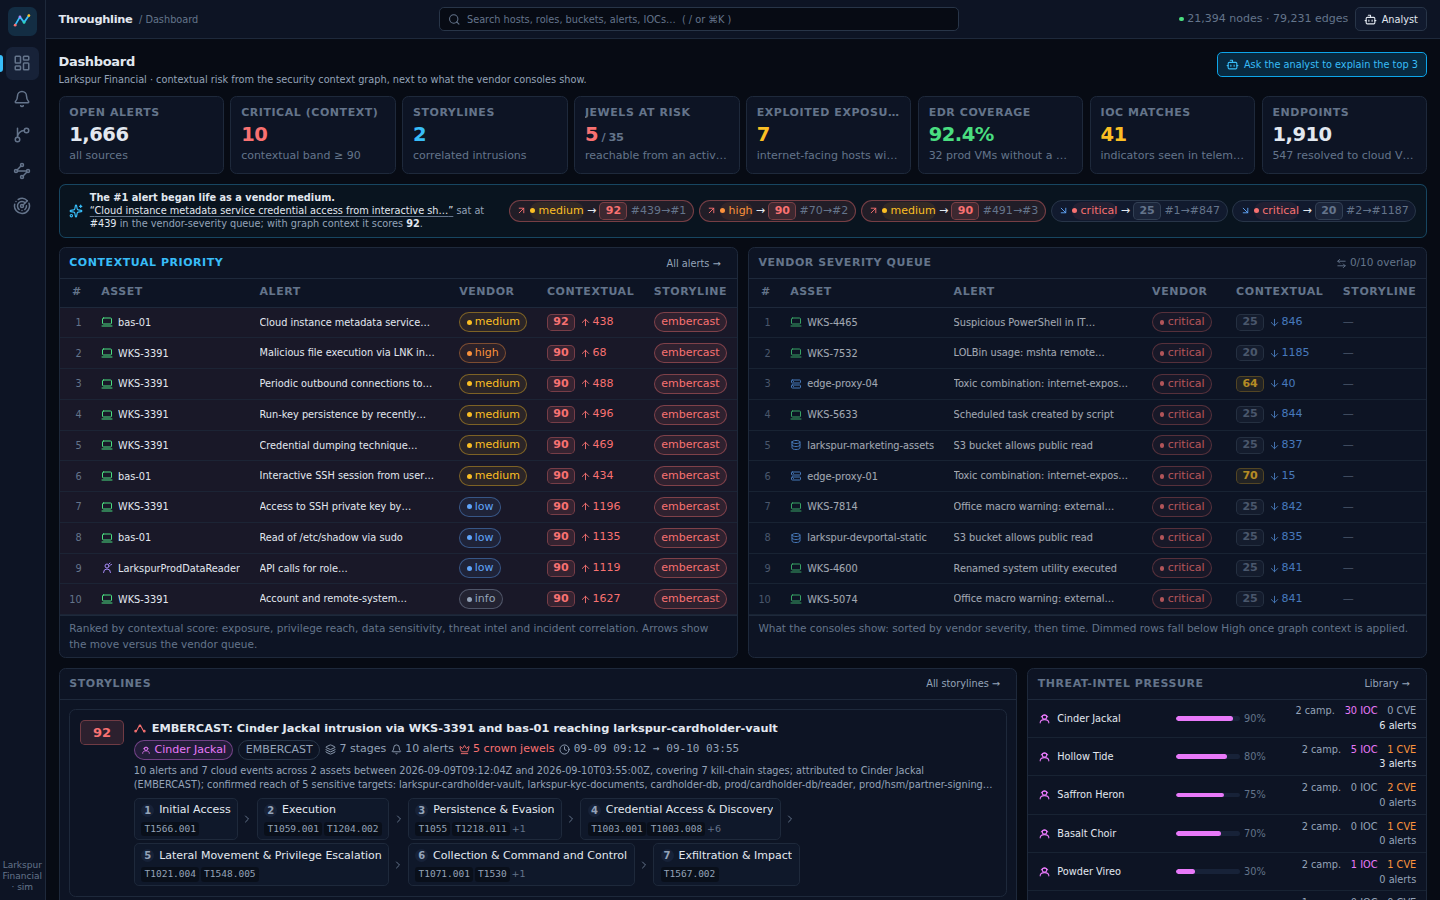
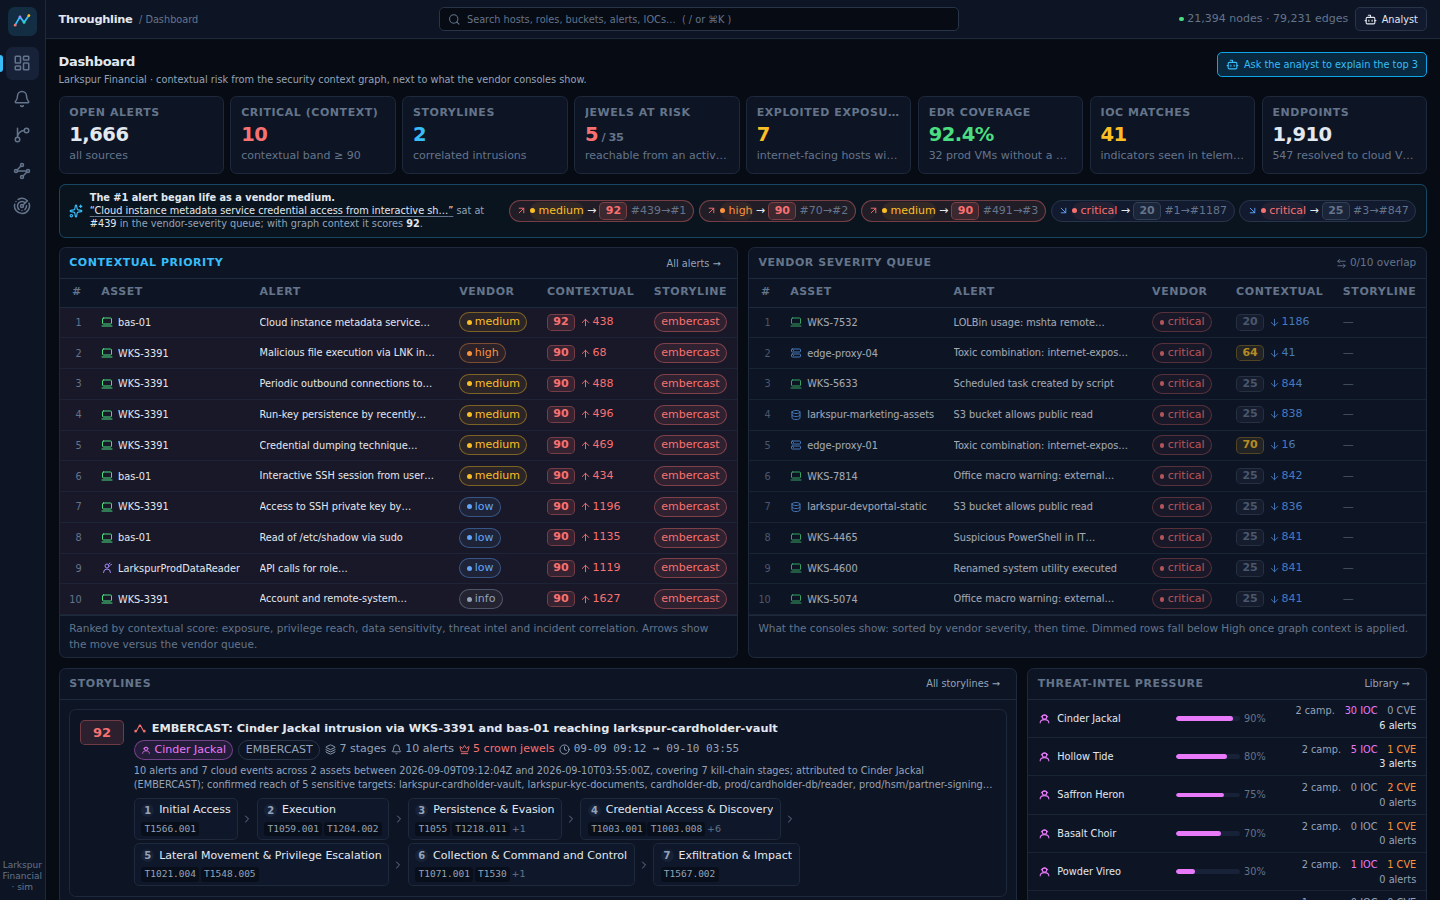
Critique round 3: no future-dated alerts, refreshed screenshots
Claude-Session: https://claude.ai/code/session_013aE9D7t1L3X8jcpr9GW8jN

diff --git a/throughline/simulator/events/ctx.py b/throughline/simulator/events/ctx.py
@@ -8,10 +8,11 @@ typed columns docs/03-graph-schema.md section 3.6 requires.
 from __future__ import annotations
 
 from dataclasses import dataclass, field
+from datetime import timedelta
 from typing import Any
 
 from throughline.simulator.catalog.techniques import TECHNIQUES, tactic_of, technique_node_id
-from throughline.simulator.common import at, edge, node
+from throughline.simulator.common import NOW, at, edge, node, parse_ts, ts
 from throughline.simulator.common import parse_ts as _parse_ts
 from throughline.simulator.events.inventory_stub import Inventory
 
@@ -129,6 +130,8 @@ def add_alert(
     """
     feed = SOURCE_FEED.get(source_system, f"{source_system}-sim")
     detected = at(detected_at)
+    if parse_ts(detected) > NOW:  # noise generators spread "today" over 24 h; nothing may post-date the simulation clock
+        detected = ts(parse_ts(detected) - timedelta(days=1))
     tac = tactic if tactic is not None else (tactic_of(techniques) or "")
     props = {
         "source_system": source_system,

diff --git a/docs/08-critique-log.md b/docs/08-critique-log.md
@@ -32,6 +32,8 @@ the data for realism. Each round lists what was found and what changed.
 
 | Check | Result |
 |---|---|
+| Data sweep: 105 noise alerts (WAF, IDS, EDR) carried detection times later than the simulation clock because "today" was spread over 24 hours | The shared alert constructor moves any post-clock time back one day; zero future-dated alerts, events or logons |
+| Data sweep: vendor severities, contextual bands, per-entity alert counts, crown-jewel fan-in, sensor coverage and degree outliers | All within expected ranges (46 vendor-critical alerts: 19 land in noise, 1 in high) |
 | Full Python suite (unit, conformance, API, scenarios) | green |
 | Web lint and production build | clean |
 | Screenshots regenerated from the running prototype | `docs/screenshots/` |
